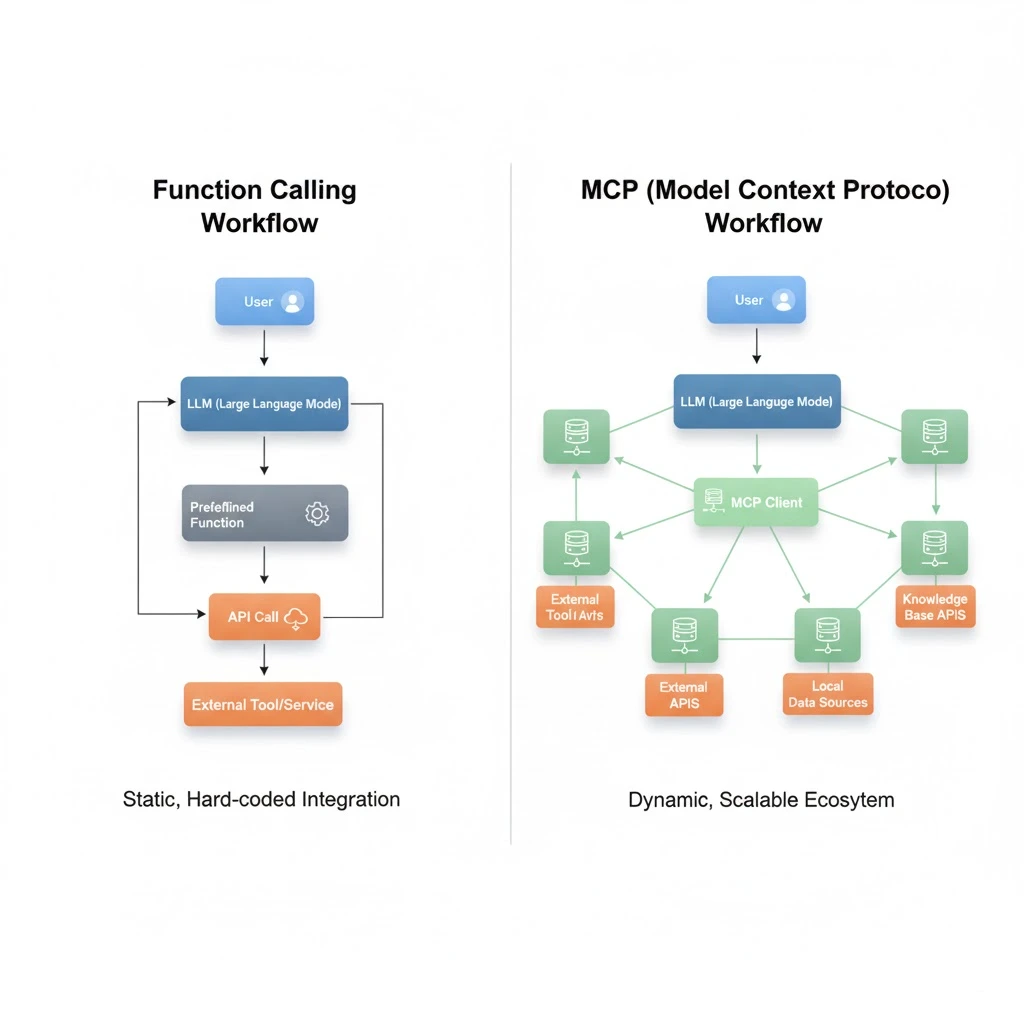
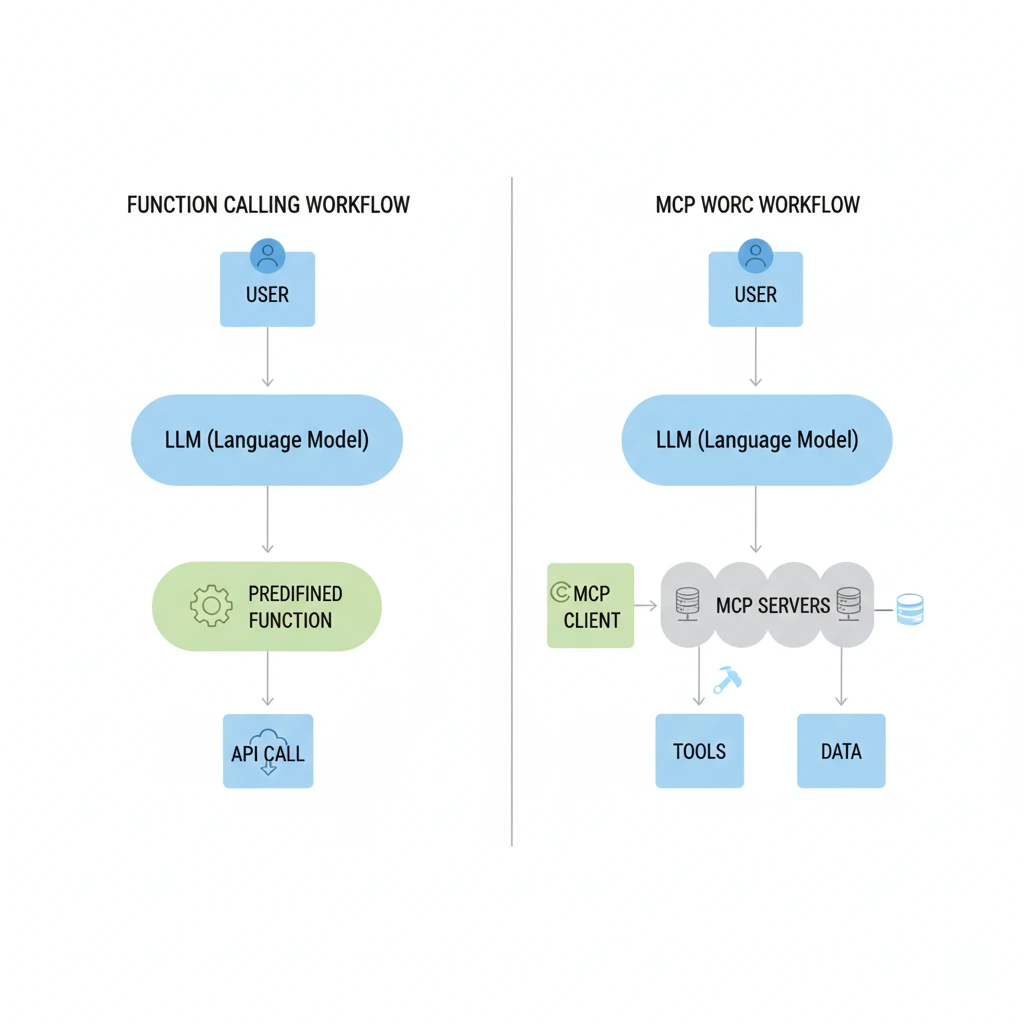
fix: remove duplicate frontmatter delimiter in blog post
Issue: Extra '---' at line 16 caused parsing issues
Fix: Removed duplicate frontmatter closing tag

Result:
- Blog post frontmatter now parses correctly
- Image displays properly in blog list
- All metadata is correctly read

Changed region(s): [[0.5, 0.1562, 0.9688, 0.8125], [0.125, 0.1562, 0.4062, 0.8125], [0.125, 0.75, 0.1562, 0.8125]]

diff --git a/src/data/post/mcp-fuction-call.md b/src/data/post/mcp-fuction-call.md
@@ -1,7 +1,7 @@
 ---
 publishDate: 2026-03-14
 author: John Smith
-title: "MCP vs Function Calling: The Next Evolution of AI System Architecture"
+title: "MCP vs Function Calling: The Complete Guide to AI Tool Integration Architecture"
 excerpt: "Explore the architectural differences between MCP and Function Calling, and understand how these technologies shape the future of AI system integration."
 image: "~/assets/images/blog/mcp-function-call.webp"
 category: Tutorials
@@ -14,37 +14,115 @@ metadata:
   canonical: "https://localaiagent.tech/blog/mcp-vs-function-calling-ai-architecture"
 ---
 
-Lorem ipsum dolor sit amet, consectetur adipisicing elit, sed do eiusmod tempor incididunt ut labore et dolore magna aliqua. Ut enim ad minim veniam, quis nostrud exercitation ullamco laboris nisi ut aliquip ex ea commodo consequat. Duis aute irure dolor in reprehenderit in voluptate velit esse cillum dolore eu fugiat nulla pariatur. Excepteur sint occaecat cupidatat non proident, sunt in culpa qui officia deserunt mollit anim id est laborum.
+## The Rise of the Agentic Era
 
-## Nostra torquent consequat volutpat aliquet neque
+Large Language Models (LLMs) have evolved from text generators into **Reasoning Engines**. In the modern AI stack, the value of a model is no longer just "what it knows," but "what it can do." This transition to agentic workflows requires a robust bridge between the model's reasoning and the real world—databases, local file systems, and enterprise APIs.
 
-Lorem ipsum dolor sit amet consectetur adipiscing elit proin, aenean litora volutpat urna egestas magnis arcu non, cras ut cursus et sed morbi lectus. Integer faucibus sagittis eu nunc urna aliquet a laoreet torquent, suspendisse penatibus nulla sollicitudin congue rutrum dictum. Ornare mi habitasse fermentum phasellus dui et morbi litora sodales dictum id erat, nibh purus class ligula aenean lectus venenatis euismod cras torquent ac. Senectus sagittis conubia hendrerit at egestas porta venenatis nisi metus gravida tempor, aenean facilisis nisl ante facilisi lacus integer hac iaculis purus. Scelerisque libero torquent egestas curae tellus viverra inceptos imperdiet urna, porta suspendisse interdum primis odio morbi tempor commodo dictumst, suscipit ornare habitasse semper feugiat cras quisque lobortis.
+To build this bridge, developers primarily choose between two architectural patterns: **Function Calling** (the established standard) and the **Model Context Protocol (MCP)** (the emerging industry protocol).
 
-Iaculis arcu commodo dis proin vitae himenaeos, ante tristique potenti magna ligula, sagittis libero fermentum ullamcorper sociis. Sem eros non arcu natoque fringilla lacus vestibulum lacinia integer mus viverra in proin, sagittis fusce tortor erat enim rutrum vulputate curae laoreet class diam. Inceptos convallis ac nisi natoque nam quisque magnis ut nullam fringilla curae, luctus lacus purus habitant erat magna molestie class habitasse metus, nibh lobortis tortor curabitur neque phasellus feugiat netus morbi parturient. Neque malesuada mauris justo himenaeos pharetra, ullamcorper enim ligula a nulla consequat, eget vivamus velit ridiculus.
+---
 
-## Praesent tellus ad sapien erat or
+## 1. What is Function Calling? (The "Hardcoded" Approach)
 
-- Quam orci nostra mi nulla, hac a.
-- Interdum iaculis quis tellus sociis orci nulla, quam rutrum conubia tortor primis.
-- Non felis sem placerat aenean duis, ornare turpis nostra.
-- Habitasse duis sociis sagittis cursus, ante dictumst commodo.
+**Function Calling** is a mechanism where the model is "taught" about specific tools via a JSON schema. The model doesn't execute the code itself; instead, it outputs a structured JSON object that your application then uses to call a local function or an API.
 
-Duis maecenas massa habitasse inceptos imperdiet scelerisque at condimentum ultrices, nam dui leo enim taciti varius cras habitant pretium rhoncus, ut hac euismod nostra metus sagittis mi aenean. Quam eleifend aliquet litora eget a tempor, ultricies integer vestibulum non felis sodales, eros diam massa libero iaculis.
+### The "Implementation" View
 
-Nisl ligula ante magnis himenaeos pellentesque orci cras integer urna ut convallis, id phasellus libero est nunc ultrices eget blandit massa ac hac, morbi vulputate quisque tellus feugiat conubia luctus tincidunt curae fermentum. Venenatis dictumst tincidunt senectus vivamus duis dis sociis taciti porta primis, rhoncus ridiculus rutrum curae mattis ullamcorper ac sagittis nascetur curabitur erat, faucibus placerat vulputate eu at habitasse nulla nisl interdum. Varius turpis dignissim montes ac ante tristique quis parturient hendrerit faucibus, consequat auctor penatibus suspendisse rutrum erat nulla inceptos est justo, etiam mollis mauris facilisi cras sociosqu eu sapien sed.
+In this setup, the tool definition is tightly coupled with the model's prompt or API request.
 
-Blandit aptent conubia mollis mauris habitasse suspendisse torquent aenean, ac primis auctor congue cursus mi posuere molestie, velit elementum per feugiat libero dictumst phasellus. Convallis mollis taciti condimentum praesent id porttitor ac dictumst at, sed in eu eleifend vehicula fermentum lectus litora venenatis, gravida hac molestie cum sociosqu mus viverra torquent. Congue est fusce habitasse ridiculus integer suscipit platea volutpat, inceptos varius elementum pellentesque malesuada interdum magnis. Hac lacus eget enim purus massa commodo nec lectus natoque fames arcu, mattis class quam ut neque dui cras quis diam orci sed velit, erat morbi eros suscipit sagittis laoreet vivamus torquent nulla turpis.
+**Example Schema (OpenAI/Ollama style):**
 
-Ridiculus velit suscipit consequat auctor interdum magna gravida dictumst libero ut habitasse, sollicitudin vehicula suspendisse leo erat tristique at platea sagittis proin dignissim, id ornare scelerisque et urna maecenas congue tincidunt dictum malesuada. Dui vulputate accumsan scelerisque ridiculus dictum quisque et nam hac, tempus ultricies curabitur proin netus diam vivamus. Vestibulum ante ac auctor mi urna risus lacinia vulputate justo orci sociis dui semper, commodo morbi enim vivamus neque sem pellentesque velit donec hac metus odio. Tempor ultrices himenaeos massa sollicitudin mus conubia scelerisque cubilia, nascetur potenti mauris convallis et lectus gravida egestas sociis, erat eros ultricies aptent congue tortor ornare.
+```json
+{
+  "name": "get_weather",
+  "description": "Get the current weather in a given location",
+  "parameters": {
+    "type": "object",
+    "properties": {
+      "location": { "type": "string", "example": "San Francisco" }
+    }
+  }
+}
 
-Pretium aliquet sodales aliquam tincidunt litora lectus, erat dui nibh diam mus, sed hendrerit condimentum senectus arcu. Arcu a nibh auctor dapibus eros turpis tempus commodo, libero hendrerit dictum interdum mus class sed scelerisque, sapien dictumst enim magna molestie habitant donec. Fringilla dui sed curabitur commodo varius est vel, viverra primis habitant sapien montes mattis dignissim, gravida cubilia laoreet tempus aliquet senectus. Sociosqu purus praesent porttitor curae sollicitudin accumsan feugiat maecenas donec quis lacus, suscipit taciti convallis odio morbi eros nibh bibendum nunc orci. Magna cras nullam aliquam metus nibh sagittis facilisi tortor nec, mus varius curae ridiculus fames congue interdum erat urna, neque odio lobortis mi mattis diam cubilia arcu.
+```
 
-Laoreet fusce nec class porttitor mus proin aenean, velit vestibulum feugiat porta egestas sapien posuere, conubia nisi tempus varius hendrerit tortor. Congue aliquam scelerisque neque vivamus habitasse semper mauris pellentesque accumsan posuere, suspendisse lectus gravida erat sagittis arcu praesent mus ornare. Habitasse nibh nam morbi mollis senectus erat risus, cum sollicitudin class platea congue mattis venenatis, luctus aenean parturient hendrerit malesuada ante. Mus auctor tincidunt consequat massa tortor nulla luctus habitasse vestibulum quis velit, laoreet sagittis cum facilisi in sem tellus leo vulputate vehicula bibendum orci, felis nisl blandit lacus convallis congue turpis magna facilisis condimentum.
+### Advantages & Constraints
 
-Dictumst pellentesque urna donec sociis suscipit montes consequat, commodo quam habitasse senectus fringilla maecenas, inceptos magna tristique eu nullam nam. Maecenas orci nibh hac eu tristique ut penatibus ultrices ante, pellentesque cubilia pharetra dis facilisis aliquam praesent malesuada vivamus, commodo cras velit convallis molestie nec tellus augue. Etiam ut convallis risus id dapibus platea laoreet accumsan, habitant et aenean netus inceptos iaculis per, mauris curae at ligula odio ad eu. Mauris erat tempor interdum sapien commodo per nullam tortor, fusce facilisis vehicula egestas dui nulla conubia ut fames, fringilla et tincidunt penatibus facilisi at mollis.
+| Pros | Cons |
+| --- | --- |
+| **Simplicity:** Easy to implement for 1-2 tools. | **Tightly Coupled:** If you change your model, you often have to rewrite your tool-handling logic. |
+| **Control:** Total authority over execution logic. | **Scalability:** Managing 50+ functions in a single prompt degrades model performance (context window bloat). |
+| **Predictability:** Ideal for fixed, linear tasks. | **Static:** Tools cannot be "discovered" at runtime. |
 
-Fermentum sociosqu litora primis sollicitudin fusce diam consequat vehicula per lobortis et, viverra sodales magna rutrum sed mollis faucibus molestie purus montes est, risus nostra congue venenatis lectus enim torquent eros dis dapibus. Dui suscipit scelerisque massa ligula euismod accumsan augue, magna vel lacus ante nullam senectus commodo, viverra cubilia eros eget penatibus tempor. Mattis mauris hac felis semper dui sociis faucibus mollis ornare pretium aliquam velit nisl, quis litora sem at vel duis rutrum imperdiet natoque viverra himenaeos tempor.
+---
 
-Integer eu tristique purus luctus vivamus porttitor vel nisl, tortor malesuada augue vulputate diam velit pellentesque sodales, duis phasellus vestibulum fermentum leo facilisi porta. Hac porttitor cum dapibus volutpat quisque odio taciti nulla senectus mollis curae, accumsan suscipit cubilia tempor ligula in venenatis justo leo erat, magna tincidunt nullam lacinia luctus malesuada non vivamus praesent pharetra. Non quam felis montes pretium volutpat suspendisse lacus, torquent magna dictumst orci libero porta, feugiat taciti cras ridiculus aenean rutrum. Tellus nostra tincidunt hac in ligula mi vulputate venenatis pellentesque urna dui, at luctus tristique quisque vel a dignissim scelerisque platea pretium, suspendisse ante phasellus porttitor quis aliquam malesuada etiam enim nullam.
+## 2. What is MCP? (The "USB for AI" Approach)
 
-Hendrerit taciti litora nec facilisis diam vehicula magnis potenti, parturient velit egestas nisl lobortis tincidunt rutrum cursus, fusce senectus mi massa primis mattis rhoncus. Accumsan est ac varius consequat vulputate, ligula cursus euismod sagittis inceptos scelerisque, lacus malesuada torquent dictumst. Volutpat morbi metus urna rhoncus nunc tempor molestie, congue curabitur quis interdum posuere. Mollis viverra velit tortor mus netus nunc molestie metus, sem massa himenaeos luctus feugiat taciti iaculis fames porttitor, leo arcu consequat gravida dapibus pulvinar elementum.
+Introduced as an open standard, the **Model Context Protocol (MCP)** moves away from hardcoding tools. It introduces a standardized layer between the AI Client (like an IDE or an Agent) and the Tool Provider (the MCP Server).
+
+### The "Protocol" View
+
+Instead of embedding tool logic, you connect to an **MCP Server**. This server "advertises" its capabilities to the client.
+
+### Core Components
+
+* **MCP Server:** A standalone service (local or remote) that exposes data and tools (e.g., a SQLite inspector, a Git manager).
+* **MCP Client:** The application (like Claude Desktop or a custom Python agent) that consumes these services.
+* **Resources & Tools:** Standardized URI-based access to data and executable functions.
+
+### Key Characteristics
+
+| Feature | Why it Matters |
+| --- | --- |
+| **Dynamic Discovery:** | The agent "asks" the server what it can do at runtime. |
+| **Decoupled Security:** | Tools run in their own environment. You don't have to give the LLM core access to your whole system. |
+| **Interoperability:** | Write an MCP Server once; use it across any LLM that supports the protocol. |
+
+---
+
+## 3. Deep Dive: Key Differences
+
+| Feature | Function Calling | MCP (Model Context Protocol) |
+| --- | --- | --- |
+| **Analogy** | A custom-built, soldered-in component. | A USB peripheral (Plug-and-Play). |
+| **Scalability** | Linear (adding tools increases prompt size). | Exponential (tools are offloaded to servers). |
+| **Maintenance** | High (must update app code for every change). | Low (update the server, client updates automatically). |
+| **Context Management** | Manual (developer manages what goes in). | Automated (standardized resource/prompt templates). |
+| **Data Sovereignty** | Data usually passes through the app layer. | Tools can stay local/edge while the model stays cloud. |
+
+---
+
+## 4. Security & Data Sovereignty: The "Edge" Perspective
+
+For enterprise and local AI deployments, **MCP offers a significant security advantage.** In **Function Calling**, the application must often have broad permissions to execute tasks on behalf of the user. In an **MCP architecture**, the "Tools" can live inside a restricted, local container (the MCP Server). The model only receives the *output* of the tool, never the raw credentials or the full database access.
+
+This makes MCP the preferred choice for **Local AI Infrastructure** where data privacy and "Zero-Trust" access are mandatory.
+
+---
+
+## 5. Decision Matrix: Which One Should You Use?
+
+### Choose Function Calling if:
+
+* You are building a **Simple MVP** with 1-3 fixed APIs.
+* You are using a model that **does not yet support MCP**.
+* You need the **absolute minimum latency** (avoiding an extra protocol hop).
+
+### Choose MCP if:
+
+* You are building an **Agentic Platform** or an AI-powered IDE.
+* You have a **Large Toolset** (e.g., interacting with 10+ different databases and services).
+* You want **Modularity** (you want your tools to work across different models/teams).
+* You are prioritizing **Edge Computing** or local data privacy.
+
+---
+
+## Conclusion
+
+The future of AI integration is moving away from "integration" and toward **"interoperability."** While **Function Calling** remains a powerful tool for specific, developer-controlled tasks, **MCP** is setting the stage for a world where AI agents can autonomously discover and use any service with a standard "plug." For architects building the next generation of AI platforms, adopting a protocol-based mindset is no longer optional—it's a requirement for scale.
+
+---
+
+### Next Steps
+
+Would you like me to generate a **Python-based MCP Server template** for a specific use case (like a local database inspector), or perhaps a **Tailwind CSS-optimized comparison table** component for your Astro site?
